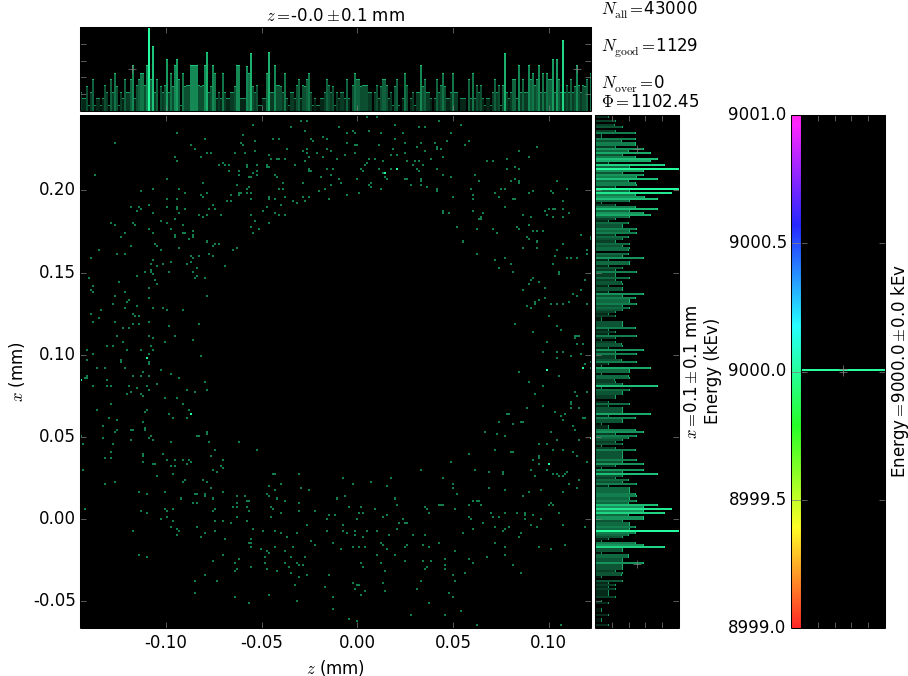
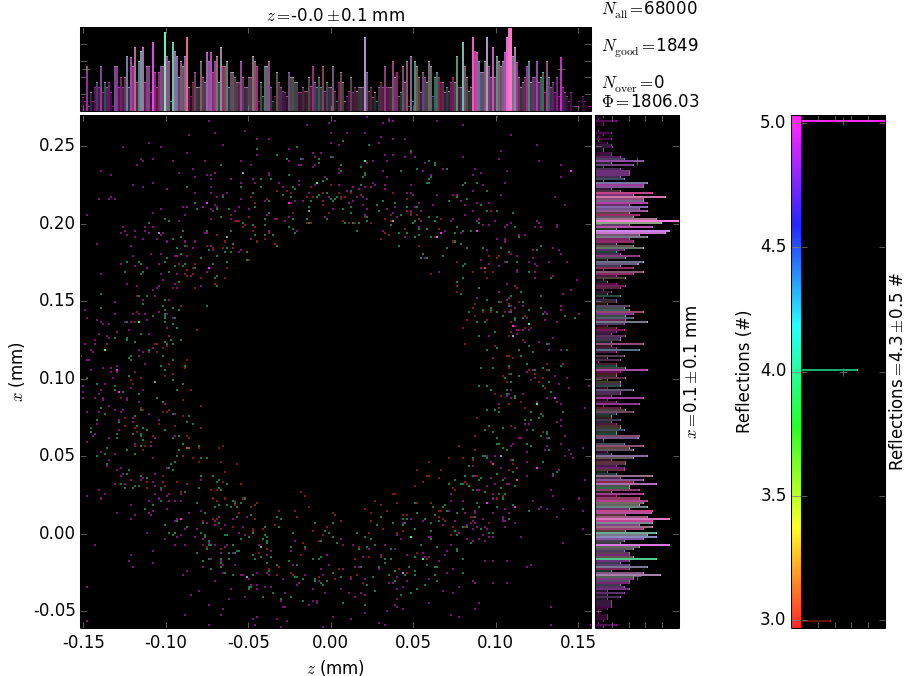
Number of reflections test

diff --git a/simplfiedMonoCapillary.py b/simplfiedMonoCapillary.py
@@ -179,7 +179,7 @@ def main():
         xaxis=xrtp.XYCAxis(r'$z$', 'mm', data=raycing.get_z, bins=256, ppb=2, limits = None),
         yaxis=xrtp.XYCAxis(r"$x$", 'mm', data=raycing.get_x, bins=256, ppb=2, limits = None),
 #        caxis='category', 
-        caxis=xrtp.XYCAxis("Energy", 'kEv',data=raycing.get_energy, bins=256, ppb=2),
+        caxis=xrtp.XYCAxis("Reflections", '#',data=raycing.get_reflection_number, bins=256, ppb=2),
         beamState='beamFSM2', title='FSM2_Cat', aspect='auto')
     plot.baseName = 'phaseSearch'
     plot.saveName = plot.baseName + '.png'
